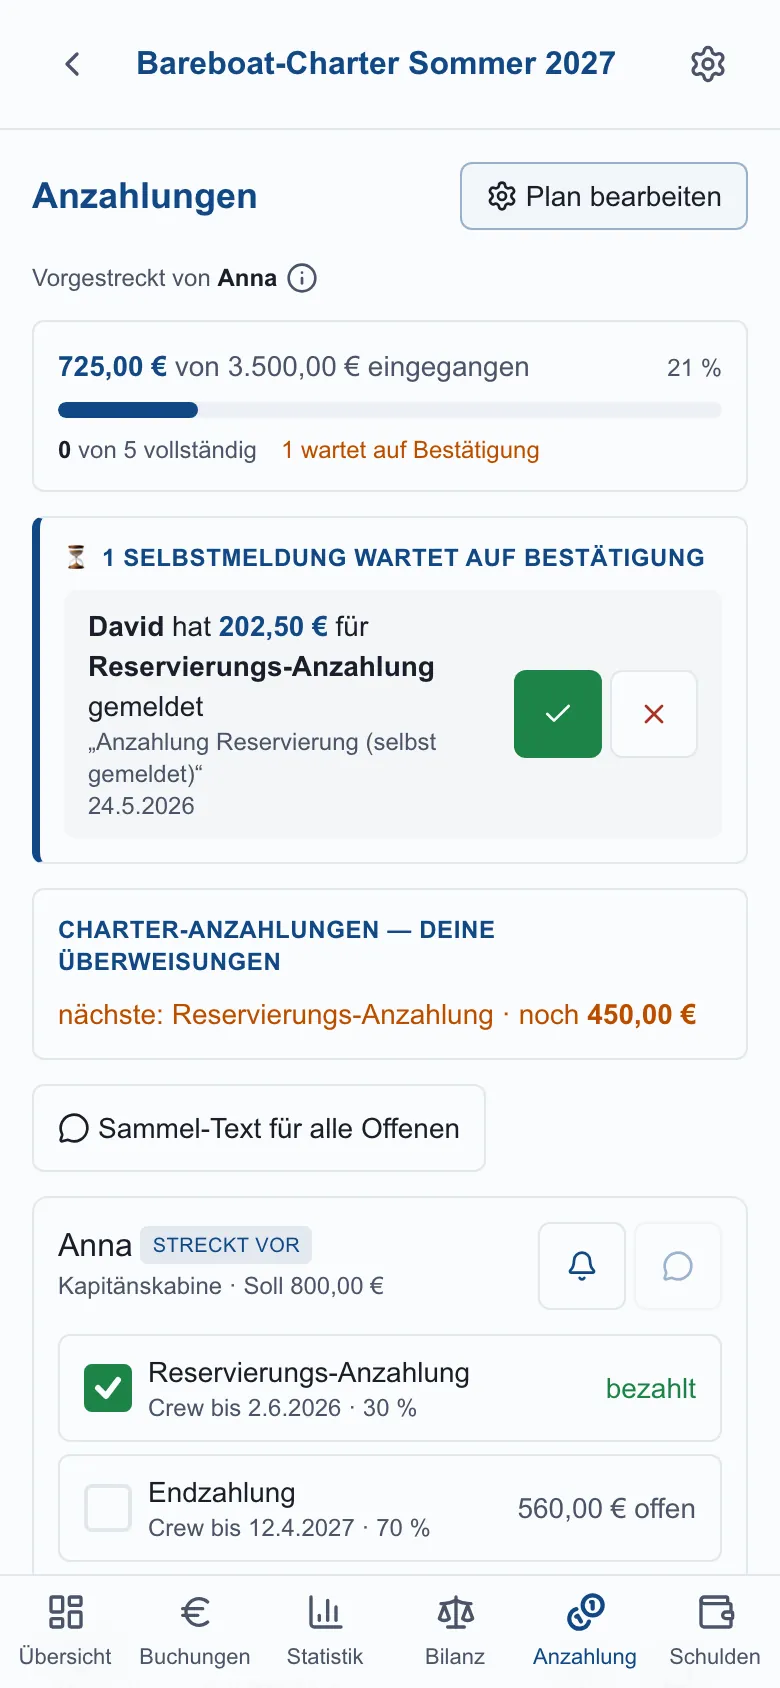
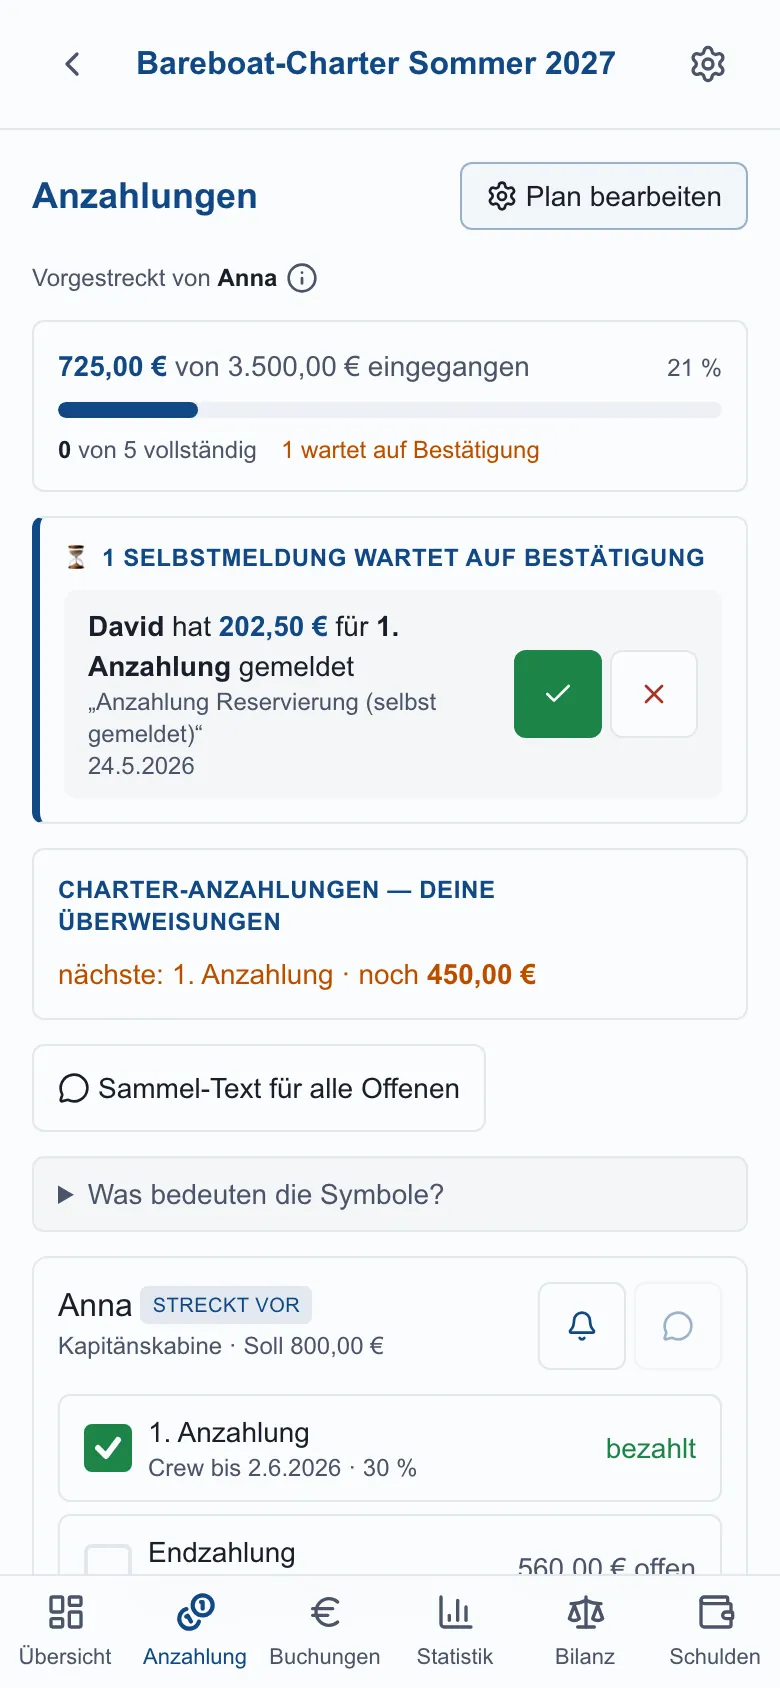
docs(about): Screenshots regeneriert + Tranchen-/Nav-Texte aktualisiert
- 13 Screenshots neu aufgenommen: Anzahlungs-Tab jetzt an Position 2 in der
  Bottom-Nav, Tranchen-Labels durchnummeriert (1. Anzahlung … Endzahlung),
  Wizard ohne freies Label-Feld.
- About-Text: 'Reservierungs-Anzahlung' → numerierte Tranchen erklärt.

diff --git a/webapp/app/about/page.tsx b/webapp/app/about/page.tsx
@@ -315,8 +315,10 @@ const features: Feature[] = [
         </p>
         <p className="mt-2">
           Im zweiten Schritt werden die <strong>Tranchen</strong> definiert
-          — typischerweise 30 % Reservierungs-Anzahlung Monate vorab und
-          70 % Endzahlung kurz vor dem Törn. Die Summe muss 100 % ergeben.
+          — typischerweise eine erste Anzahlung von 30 % Monate vorab und
+          70 % Endzahlung kurz vor dem Törn. Die App benennt sie automatisch
+          durch (1. Anzahlung, 2. Anzahlung … Endzahlung); die Summe muss
+          100 % ergeben.
           Eine WhatsApp-Vorlage und eine optionale Wero-ID lassen sich
           ebenfalls hier hinterlegen.
         </p>
